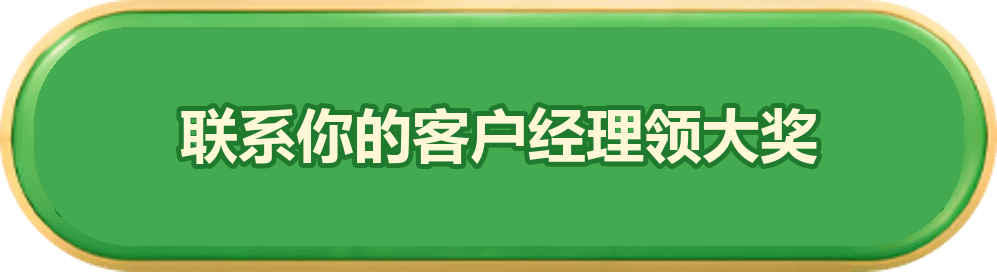
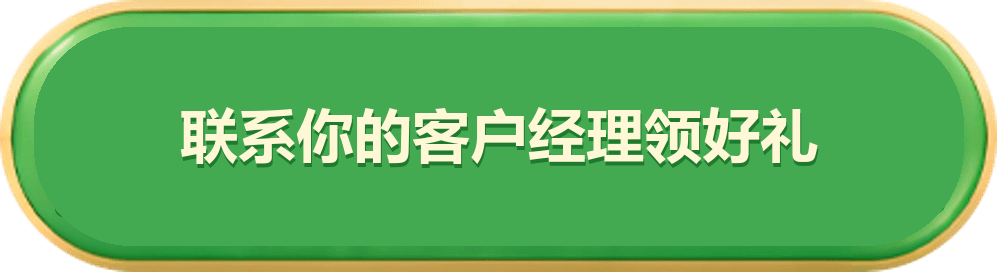
Enlarge the new title to the previous layout and change the prize button to a gift.

Changed region(s): [[0.1555, 0.3824, 0.8395, 0.6176]]

diff --git a/index.html b/index.html
@@ -6,8 +6,8 @@
   <meta http-equiv="Pragma" content="no-cache" />
   <meta http-equiv="Expires" content="0" />
   <meta name="viewport" content="width=device-width, user-scalable=no, initial-scale=1, maximum-scale=1, viewport-fit=cover" />
-  <title>大家消消乐 肠享好时光</title>
-  <link rel="stylesheet" href="css/game.css?v=16" />
+  <title>益生守护 肠享好时光</title>
+  <link rel="stylesheet" href="css/game.css?v=17" />
 </head>
 <body>
   <div class="phone" id="phone">
@@ -21,7 +21,7 @@
     <div class="side-tabs">
       <button type="button" data-action="rules"><img src="assets/static/image/tab_rules.2280077b.png" alt="活动规则" /></button>
     </div>
-    <img class="theme" src="assets/static/image/theme.24d3b741.png" alt="大家消消乐 肠享好时光" />
+    <img class="theme" src="assets/static/image/theme.24d3b741.png?v=17" alt="益生守护 肠享好时光" />
     <button class="start-btn" type="button" data-action="start"><img src="assets/static/image/start.416fb9e8.png" alt="开始游戏" /></button>
   </section>
 
@@ -59,8 +59,8 @@
     <img class="logo" src="image/logo.png" alt="北大方正人寿江苏分公司" />
     <div id="result-title" class="result-title win"></div>
     <div class="score-card">
-      <div class="score-line"><img src="assets/static/image/bad.e7701dce.png?v=16" alt="" /><span>成功消除有害菌</span><b id="result-bad">0个</b></div>
-      <div class="score-line"><img src="assets/static/image/good2.0b5e797e.png?v=16" alt="" /><span>成功守护有益菌</span><b id="result-good">0个</b></div>
+      <div class="score-line"><img src="assets/static/image/bad.e7701dce.png?v=17" alt="" /><span>成功消除有害菌</span><b id="result-bad">0个</b></div>
+      <div class="score-line"><img src="assets/static/image/good2.0b5e797e.png?v=17" alt="" /><span>成功守护有益菌</span><b id="result-good">0个</b></div>
       <div class="score-line"><span>得分</span><b id="result-score">0</b></div>
       <div id="result-rank-block" class="rank-card">
         <img id="result-rank-img" class="badge" alt="" />
@@ -71,7 +71,7 @@
     <div class="book" id="result-book">
       <div id="result-knowledge" class="knowledge"></div>
     </div>
-    <button id="btn-manager" class="manager-btn" type="button"><img src="assets/static/image/btn_manager.png" alt="联系你的客户经理领大奖" /></button>
+    <button id="btn-manager" class="manager-btn" type="button"><img src="assets/static/image/btn_manager.png?v=17" alt="联系你的客户经理领好礼" /></button>
     <div class="actions">
       <button id="btn-again" type="button" data-action="again"><img src="assets/static/image/btn_again.a8b01706.png" alt="再来一次" /></button>
       <button id="btn-next" type="button" data-action="next"><img src="assets/static/image/btn_next.547c6ce5.png" alt="下一关" /></button>
@@ -83,7 +83,7 @@
 
   <section id="howto" class="overlay howto" hidden>
     <div class="howto-card">
-      <img class="rules" src="assets/static/image/game_rules.b7cd129a.png?v=16" alt="游戏规则" />
+      <img class="rules" src="assets/static/image/game_rules.b7cd129a.png?v=17" alt="游戏规则" />
       <img class="finger" src="assets/static/image/finger.2957c077.png" alt="" />
     </div>
     <button type="button" data-action="howto-go"><img class="howto-go" src="assets/static/image/start.766e35a5.png" alt="开始" /></button>
@@ -122,7 +122,7 @@
 
   <div id="toast" class="toast" hidden></div>
   </div>
-  <script src="js/engine.js?v=16"></script>
-  <script src="js/app.js?v=16"></script>
+  <script src="js/engine.js?v=17"></script>
+  <script src="js/app.js?v=17"></script>
 </body>
 </html>

diff --git a/css/game.css b/css/game.css
@@ -33,8 +33,8 @@ button, img { user-select: none; }
 button { border: 0; padding: 0; background: transparent; cursor: pointer; }
 .screen, .overlay { position: absolute; inset: 0; }
 .screen { min-height: 100%; background-position: center top; background-size: cover; background-repeat: no-repeat; }
-#home { background-image: url("../assets/static/image/bg-home.jpg?v=16"); }
-#game { background-image: url("../assets/static/image/bg-game.jpg?v=16"); overflow: auto; }
+#home { background-image: url("../assets/static/image/bg-home.jpg?v=17"); }
+#game { background-image: url("../assets/static/image/bg-game.jpg?v=17"); overflow: auto; }
 #rank { background-image: url("../assets/static/image/bg.22ba2e11.jpg"); overflow: auto; }
 #poster { background-image: url("../assets/static/image/bg.9fb073bd.jpg"); overflow: auto; }
 #loading {
@@ -66,7 +66,7 @@ button { border: 0; padding: 0; background: transparent; cursor: pointer; }
 .bgm-btn.playing img { animation: bgm-spin 1s linear infinite; }
 #home { padding-top: 1rem; }
 .theme {
-  display: block; width: 5.4rem; height: 3.91rem; margin: 0 auto;
+  display: block; width: 6.5rem; height: auto; margin: 0 auto;
   object-fit: contain;
   animation: zoom-in .8s .2s both;
 }

diff --git a/js/app.js b/js/app.js
@@ -3,11 +3,11 @@ const MEDIA = "assets/static/media/";
 const LOGO = "image/logo.png";
 
 const TILES = {
-  1: IMG + "bad.e7701dce.png?v=16",
-  2: IMG + "good1.bec550f3.png?v=16",
-  3: IMG + "good2.0b5e797e.png?v=16",
-  4: IMG + "grape.ec727821.png?v=16",
-  5: IMG + "carrot.85a5d31e.png?v=16",
+  1: IMG + "bad.e7701dce.png?v=17",
+  2: IMG + "good1.bec550f3.png?v=17",
+  3: IMG + "good2.0b5e797e.png?v=17",
+  4: IMG + "grape.ec727821.png?v=17",
+  5: IMG + "carrot.85a5d31e.png?v=17",
 };
 
 const ROUND_TITLE = [
@@ -224,7 +224,7 @@ function renderRank() {
 
 function renderModal() {
   const map = {
-    rules: { title: IMG + "tab_rules.2280077b.png", body: IMG + "rules.d30d95b1.png?v=16", frame: IMG + "bg_modal2.f6c41725.png" },
+    rules: { title: IMG + "tab_rules.2280077b.png", body: IMG + "rules.d30d95b1.png?v=17", frame: IMG + "bg_modal2.f6c41725.png" },
     prize: { title: IMG + "tab_prize.50b50917.png", body: IMG + "tab_prize.50b50917.png", frame: IMG + "bg_modal1.90a830b4.png" },
     protocol: { title: IMG + "title_rules.d6d6c7d2.png", body: IMG + "protocol.e3577188.png", frame: IMG + "bg_modal3.3d7bc8c7.png" },
   };

diff --git a/js/engine.js b/js/engine.js
@@ -16,7 +16,7 @@ const RANKS = [
     min: 750,
     name: "益生守护卫士",
     stars: 5,
-    image: "rank1.89c06a4f.png?v=16",
+    image: "rank1.89c06a4f.png?v=17",
     tag: "tag1.d8ae3d69.png",
     comment: "你的菌群管理能力堪称大师级！好菌队伍壮大、坏菌无处藏身。继续保持，好好爱自己，好好爱肠道",
   },

diff --git a/make_poster.py b/make_poster.py
@@ -5,7 +5,7 @@ import qrcode
 from PIL import Image, ImageDraw, ImageFont
 
 ROOT = os.path.dirname(os.path.abspath(__file__))
-PLAY_URL = os.environ.get("PLAY_URL", "https://hua691.github.io/gut-match3-play/?v=16")
+PLAY_URL = os.environ.get("PLAY_URL", "https://hua691.github.io/gut-match3-play/?v=17")
 OUT = os.path.join(ROOT, "海报.png")
 
 W, H = 1080, 2160
@@ -24,10 +24,10 @@ def main():
     canvas.paste(bg, (0, 0), bg)
 
     theme = Image.open(THEME).convert("RGBA")
-    tw = 920
+    tw = 1000
     th = int(theme.height * tw / theme.width)
     theme = theme.resize((tw, th), Image.Resampling.LANCZOS)
-    canvas.paste(theme, ((W - tw) // 2, 86), theme)
+    canvas.paste(theme, ((W - tw) // 2, 96), theme)
 
     logo = Image.open(LOGO).convert("RGBA")
     lh = 72
